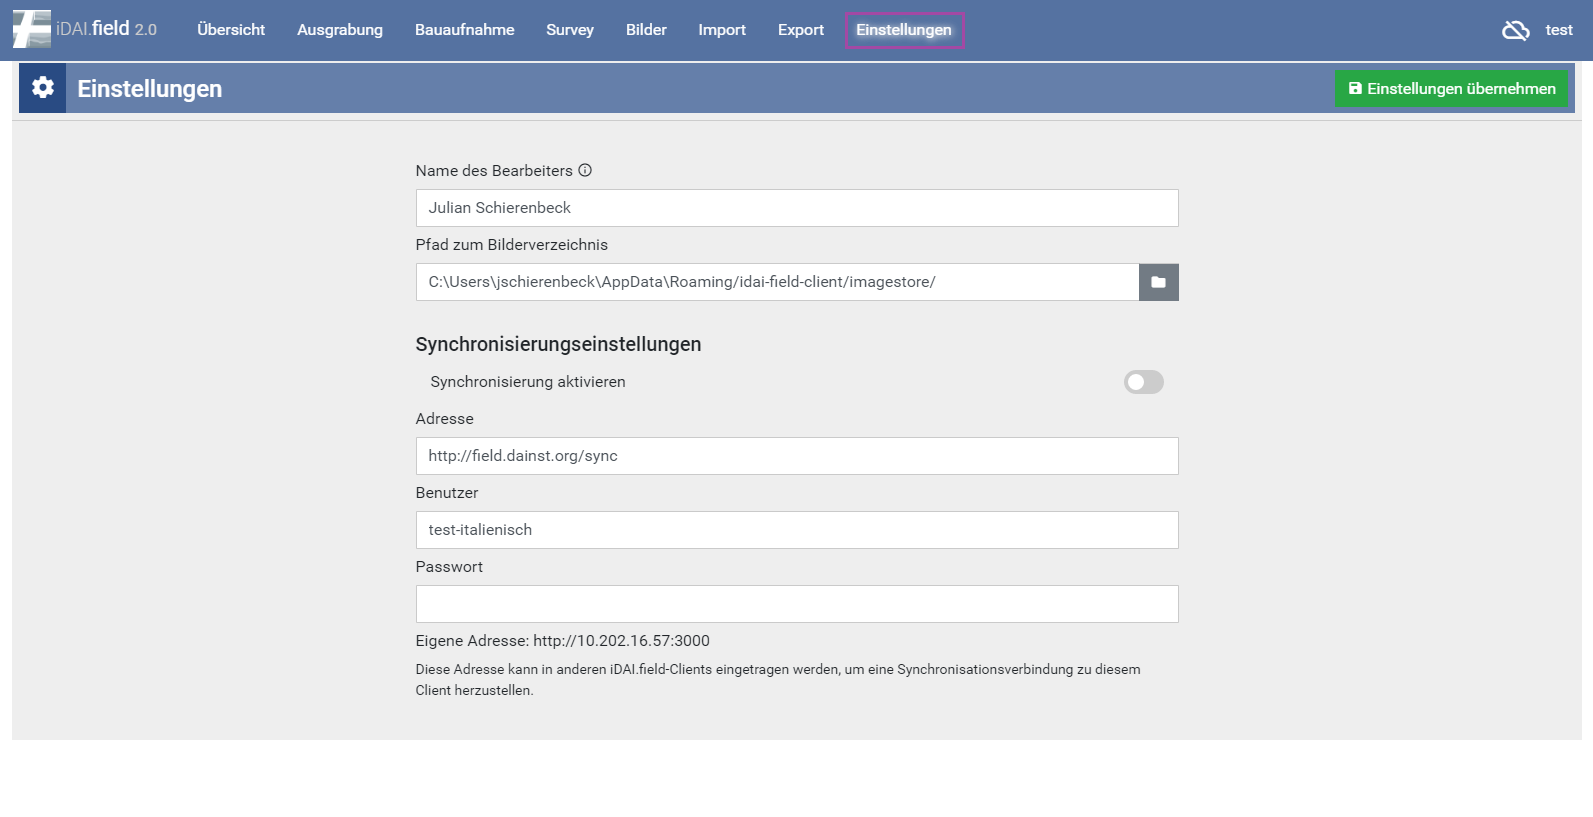
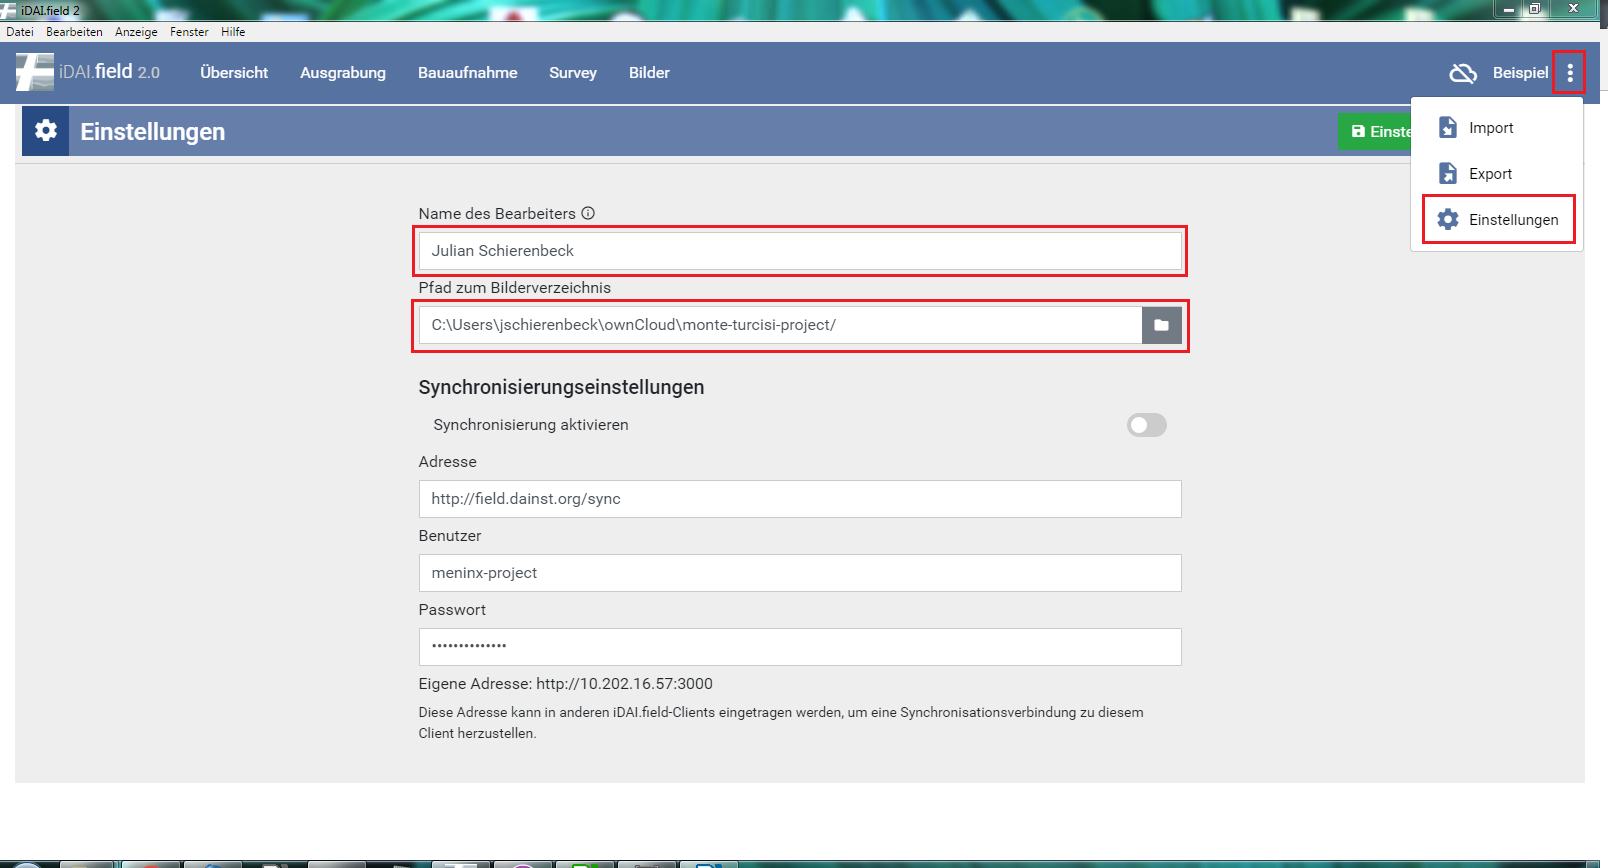
Pictures new

Changed region(s): [[0.0, 0.0, 1.0, 0.8568], [0.0, 0.9792, 1.0, 1.0], [0.8613, 0.1836, 0.9843, 0.306]]

diff --git a/manual/02._client/README.md b/manual/02._client/README.md
@@ -4,7 +4,7 @@
 *Abb. 2: Der Übersichtsbildschirm*
 
 Startseite des Clients. In diesem Bereich werden die verschiedenen Menü-Ebenen beschrieben. Rechts oben wird angezeigt, ob der Client zu einem anderen oder zum Server synchronisiert ![Synchbutton](../buttons/Synchbutton.png)
-sowie der Projektname (Tutorial).\
+sowie der Projektname (Beispiel).\
 *(siehe: Abschnitt 7 Das Projekt, Abschnitt 5 Synchronisation mit anderen Client(s))*
 
 ### 2.1 Übersicht
@@ -44,9 +44,9 @@ Bauaufnahme wird automatisch vorgenommen, weitere Ressourcen werden
 immer innerhalb einer Bauaufnahme angelegt.
 Jede Ressource kann ausgewählt werden, auf der rechten Seite wird eine
 Übersicht der eingetragenen Felder und deren Attribute angezeigt. Das
-Anlegen von Ressourcen geschieht über den ![Plusbutton](../../images/buttons/Plusbutton.png) Button. Zudem können
-weitere Bauaufnahmen hinzugefügt ![Bauaufnahmeplusbutton](../../images/buttons/Bauaufnahmeplusbutton.png) und bearbeitet werden
-![Bearbeitungsbutton](../../images/buttons/Bearbeitungsbutton.png).\
+Anlegen von Ressourcen geschieht über den ![Plusbutton]../images/buttons/Plusbutton.png) Button. Zudem können
+weitere Bauaufnahmen hinzugefügt ![Bauaufnahmeplusbutton](../images/buttons/Bauaufnahmeplusbutton.png) und bearbeitet werden
+![Bearbeitungsbutton](../images/buttons/Bearbeitungsbutton.png).\
 *(siehe: Abschnitt 8 Anlegen von Ressourcen)*
 
 ### 2.4 Survey
